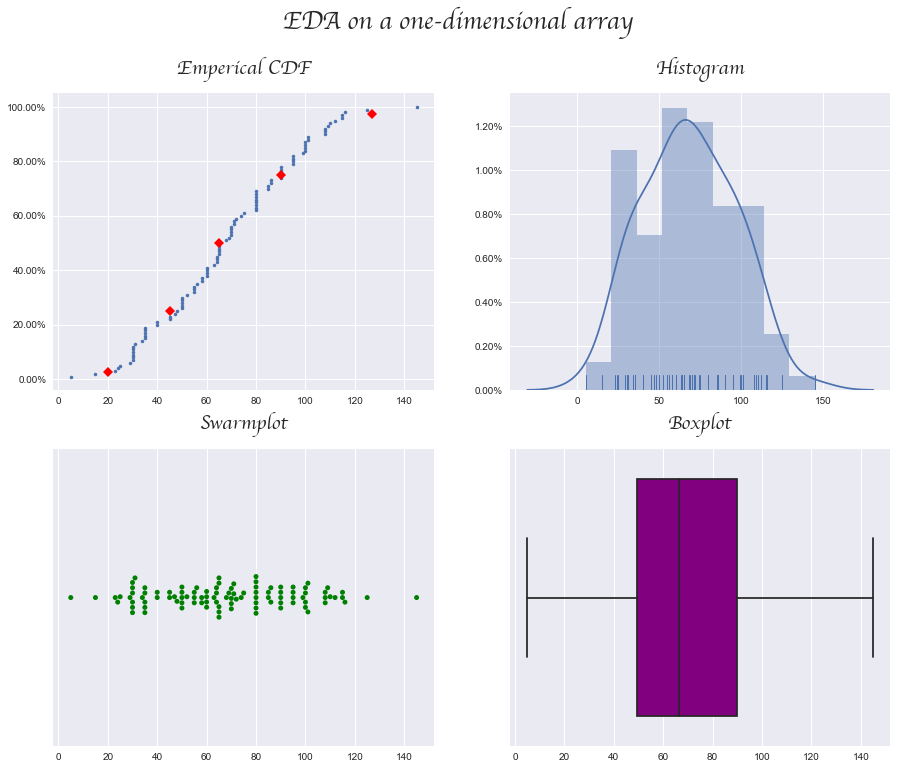
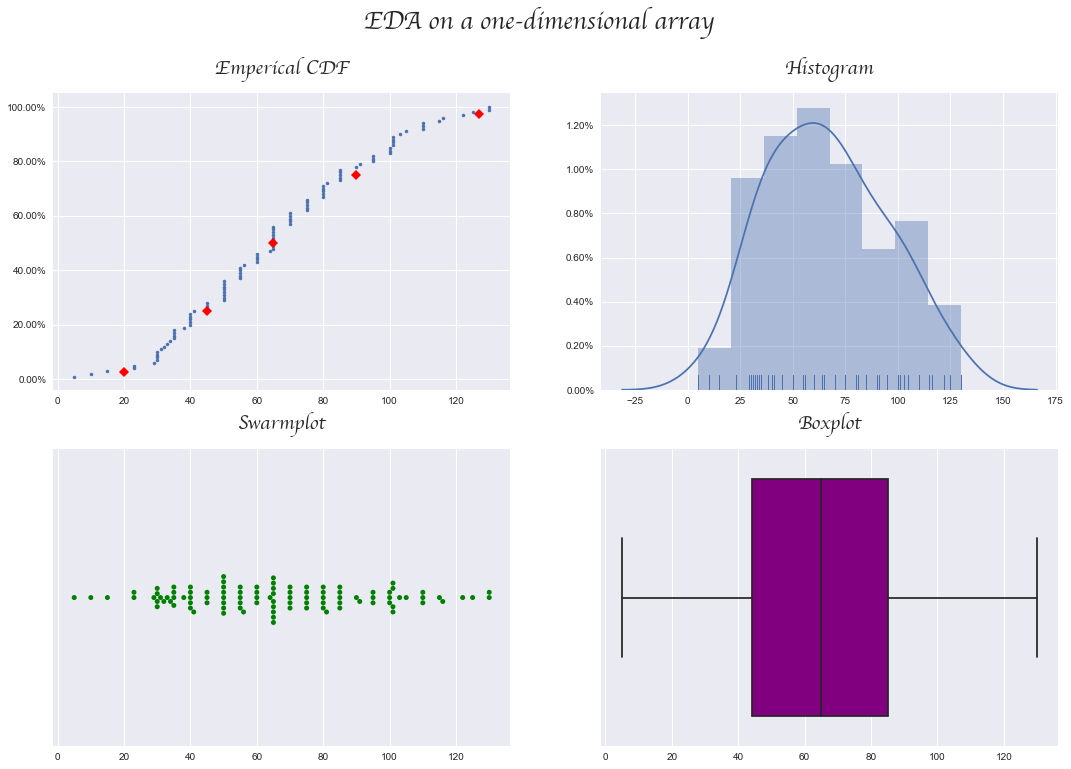
remove bivariate distplot

diff --git a/edaplotting/__init__.py b/edaplotting/__init__.py
@@ -14,14 +14,14 @@ class explore():
     percentiles = np.array([2.5,25,50,75,97.5]) # Specify array of percentiles
 
     def __init__(self, **kwargs):
-        valid_kwargs = ['x', 'y','dataframe']
+        valid_kwargs = ['x', 'y']
         for k, v in kwargs.items():
             if k not in valid_kwargs:
                 raise TypeError("Invalid keyword argument %s" % k)
             setattr(self, k, v)   
 
     def plot_univariate(self):
-        """plotting for a one-dimensional array of measurements."""
+        """plotting for a one-dimensional array(numeric) of measurements."""
 
         # extract a random sample of 100 data points
         if len(self.x)>=100:
@@ -39,7 +39,7 @@ class explore():
         y = np.arange(1,n+1) / n # y-data for the ECDF: y
 
         # subplots
-        fig, axes = plt.subplots(nrows=2, ncols=2,figsize=(15,12))
+        fig, axes = plt.subplots(nrows=2, ncols=2,figsize=(18,12))
         
         # set figure title
         fig.suptitle("EDA on a one-dimensional array",**titlefont)
@@ -71,8 +71,9 @@ class explore():
         
         
     def plot_bivariate(self):
-        """plotting for a two-dimensional array of measurements."""
+        """plotting for a two-dimensional array(numeric) of measurements."""
             
+
         # set plot attributes   
         titlefont = {'fontname':"cursive",'weight':'bold', 'fontsize':25}
         axfont = {'fontname':"cursive",'weight':'bold','fontsize':20}
@@ -80,39 +81,35 @@ class explore():
         
 
         # subplots
-        fig, axes = plt.subplots(nrows=2, ncols=2,figsize=(15,14))
+        fig, axes = plt.subplots(nrows=1, ncols=3,figsize=(18,8))
         
         # set figure title
         fig.suptitle("EDA on a two-dimensional array",**titlefont)
 
         # scatter
         # Create scatter plot with Seaborn's default setting
-        sns.regplot(x=self.x, y=self.y, data=self.dataframe,ax=axes[0,0],color='g',marker="+")
-        axes[0, 0].set_title('scatter plot', **axfont)
+        sns.regplot(x=self.x, y=self.y,color='g',marker="+",ax=axes[0])
+        axes[0].set_title('scatter plot', **axfont)
+    
+    
+        # Create scatter plot with Seaborn's default setting
+        sns.kdeplot(self.x, self.y, ax=axes[1])
+        sns.rugplot(self.x, color="g", ax=axes[1])
+        sns.rugplot(self.y, vertical=True, ax=axes[1])
+        axes[1].set_title('KDE', **axfont)
         
-        
-        # Create hist plot with Seaborn's default setting
-        sns.distplot(self.x,ax=axes[0, 1],label=self.x.name)
-        sns.distplot(self.y,ax=axes[0, 1],label=self.y.name)
-        
-        v1 = self.x.mean()
-        v2 = self.y.mean()
-        axes[0, 1].vlines(v1,0,1,colors='blue',linestyles='dashed')
-        axes[0, 1].vlines(v2,0,1,colors='green',linestyles='dashed')
-        axes[0, 1].set_title('Histogram', **axfont)
-        axes[0, 1].legend()
-        
+ 
         # Create kde plot with Seaborn's default setting
+        sns.kdeplot(self.x, self.y, ax=axes[1])
+        sns.rugplot(self.x, color="g", ax=axes[1])
+        sns.rugplot(self.y, vertical=True, ax=axes[1])
+        axes[1].set_title('KDE', **axfont)
+        
+        # Create kde(n=60) plot with Seaborn's default setting
         cmap = sns.cubehelix_palette(as_cmap=True, dark=0, light=1, reverse=True)
-        sns.kdeplot(self.x, self.y, cmap=cmap, n_levels=60, shade=True,ax=axes[1,0])
-        axes[1, 0].set_title('KDE n=60', **axfont)
-        
-        # Create kde plot with Seaborn's default setting
-        sns.kdeplot(self.x, self.y, ax=axes[1,1])
-        sns.rugplot(self.x, color="g", ax=axes[1,1])
-        sns.rugplot(self.y, vertical=True, ax=axes[1,1])
-        axes[1, 1].set_title('KDE', **axfont)
-        
-        
+        sns.kdeplot(self.x, self.y, cmap=cmap, n_levels=60, shade=True,ax=axes[2])
+        axes[2].set_title('KDE (n=60)', **axfont)
+    
+    
         # Display the plot
         plt.show()

diff --git a/setup.py b/setup.py
@@ -1,7 +1,7 @@
 from setuptools import setup
 
 setup(name='edaplotting',
-      version='0.5',
+      version='0.6',
       description='plotting for exploratory data analysis',
       url='http://github.com/asela1982/edaplotting',
       author='Asela Dassanayake',

diff --git a/README.md b/README.md
@@ -3,7 +3,6 @@
 In the words of John Turkey :
 > Exploratory data analysis can never be the whole story, but nothing else can serve as the foundation stone.
 
-
 ### Dependencies
 
 pandas (required) : https://pandas.pydata.org  
@@ -14,8 +13,8 @@ seaborn (required): https://seaborn.pydata.org
 ### Key features
 
 * Plot command that supports 4-in-1 with no requirment to import any plotting libraries :sunglasses:
-* Supports univariate exploratory analysis 
-* Takes only a 100 random data points for plotting
+* Supports univariate and bivariate exploratory analysis on numerical variables
+* Takes only a 100 random data points for plotting(only available for univariate)
 * Includes the ECDF plot : https://en.wikipedia.org/wiki/Empirical_distribution_function
 * Red diamonds on the ECDF plot indicate the following percentiles : 2.5,25,50(median),75,97.5
 
@@ -45,7 +44,7 @@ myobject.plot() # plot the object
 import edaplotting as eda # import the edaplotting library and assign the alias eda
 import pandas as pd # import pandas
 data = pd.read_csv('Pokemon.csv') # read in a dataset of interest 
-myobject = eda.explore(dataframe['Speed'],dataframe['Attack'],dataframe=data) # initialize the class with a two-dimensional array
+myobject = eda.explore(dataframe['Speed'],dataframe['Attack']) # initialize the class with a two-dimensional array
 myobject.plot() # plot the object
 ```
 
@@ -53,7 +52,8 @@ myobject.plot() # plot the object
 
 ### Todo
 
-Sample the bivariate array
+* Sample data for the bivariate array
+* Expand for categorical variables
 
 ### License
 
